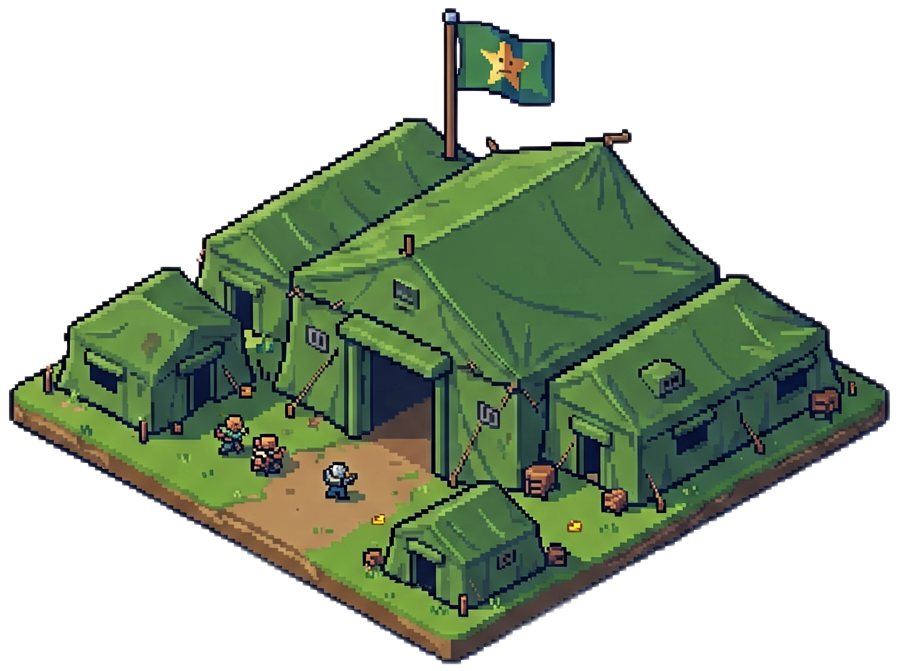
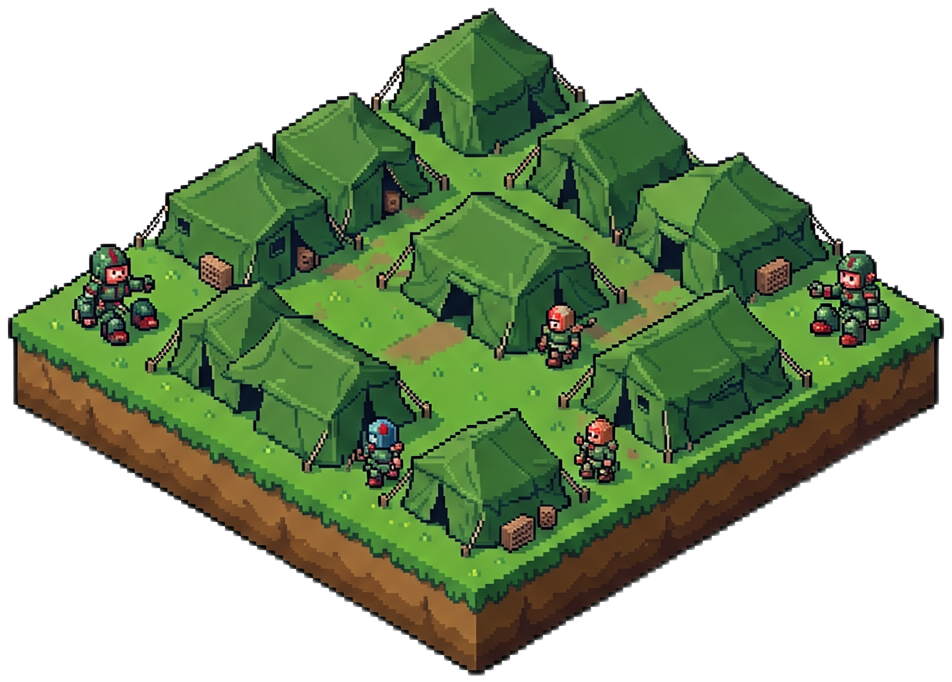
v68：建筑贴图管线铁规——dh统一自然比例(去1.35阈值分支)、黄线按贴图底部滤噪后底边贴合蓝线；兵营新贴图

diff --git a/11.html b/11.html
@@ -1,0 +1,104 @@
+<!DOCTYPE html>
+<html lang="zh">
+<head>
+<meta charset="UTF-8">
+<title>兵营生成全过程演示</title>
+<style>
+  body{background:#111;color:#ddd;font:14px/1.6 system-ui;margin:20px}
+  h1{color:#ffd23f} h3{color:#00e5ff;margin:8px 0}
+  canvas{background:#1a2e1a;border:1px solid #444;border-radius:8px}
+  .row{display:flex;gap:20px;flex-wrap:wrap}
+  .panel{max-width:440px}
+  .tag{display:inline-block;padding:2px 8px;border-radius:4px;margin-right:6px}
+  .y{background:#ffd23f;color:#111} .b{background:#00e5ff;color:#111} .r{background:#ff5252;color:#fff} .o{background:#ff8f00;color:#111}
+  .note{font-size:12px;color:#999}
+</style>
+</head>
+<body>
+<h1>&#127961; 兵营（barracks）生成全过程演示</h1>
+<p>演示：贴图 &rarr; 底部轮廓检测 &rarr; 底边贴合 &rarr; 黄线(沿轮廓/菱形) 与 蓝线(菱形地块) 的对齐关系。</p>
+<div class="row">
+  <div class="panel"><h3>&#9312; 原始贴图 <span class="tag y">裁剪后</span></h3>
+    <canvas id="c1" width="300" height="300"></canvas>
+    <p class="note">assets/barracks.png 已裁剪到主体包围盒。红警兵营是横长建筑 &rarr; 宽&gt;高。</p>
+  </div>
+  <div class="panel"><h3>&#9313; 底部轮廓 bottomProfile <span class="tag r">红点</span></h3>
+    <canvas id="c2" width="300" height="300"></canvas>
+    <p class="note">每列最底部非透明像素（红点）。横长平底 &rarr; 轮廓近似水平线（非等距 V 形）。</p>
+  </div>
+  <div class="panel"><h3>&#9314; 底边贴合 + 黄/蓝线对齐 <span class="tag b">蓝=菱形</span></h3>
+    <canvas id="c3" width="440" height="300"></canvas>
+    <p class="note">蓝线=2&times;2 菱形地块。黄A 沿贴图轮廓=平线不对齐；黄B 菱形底边=贴合蓝线。</p>
+  </div>
+</div>
+<script>
+const TILE_W=84, TILE_H=42;
+const img=new Image();
+img.onload=init;
+img.src='assets/barracks.png?v=2';
+function bottomProfile(){
+  const ow=img.naturalWidth, oh=img.naturalHeight;
+  const oc=document.createElement('canvas'); oc.width=ow; oc.height=oh;
+  const octx=oc.getContext('2d',{willReadFrequently:true});
+  octx.drawImage(img,0,0);
+  const d=octx.getImageData(0,0,ow,oh).data;
+  const prof=new Array(ow);
+  for(let x=0;x<ow;x++){let b=-1;for(let y=oh-1;y>=0;y--){if(d[(y*ow+x)*4+3]>8){b=y;break}}prof[x]=b<0?-1:b/oh;}
+  return prof;
+}
+function init(){
+  const prof=bottomProfile();
+  const ow=img.naturalWidth, oh=img.naturalHeight;
+  let pMin=null,pMax=null;
+  for(let x=0;x<ow;x++){if(prof[x]<0)continue;const f=x/ow;if(pMin==null||f<pMin)pMin=f;if(pMax==null||f>pMax)pMax=f;}
+  const vals=prof.filter(v=>v>=0).sort((a,b)=>a-b);
+  const ratio=vals.length?vals[Math.floor(vals.length*0.95)]:1;
+  const dw=Math.round(160*((2*TILE_W)/((pMax-pMin)*160)));   // 底边贴合宽
+  const dh=Math.max(1,Math.round(dw*oh/ow));                 // 自然比例（不压扁）
+  draw1(); draw2(prof); draw3(prof,ow,oh,dw,dh,ratio);
+}
+function draw1(){
+  const c=document.getElementById('c1').getContext('2d');
+  const s=Math.min(150/img.width,150/img.height);
+  c.drawImage(img,150-img.width*s/2,150-img.height*s/2,img.width*s,img.height*s);
+  c.strokeStyle='#ffd23f'; c.strokeRect(150-150/2,150-150/2,150,150);
+  c.fillStyle='#ffd23f'; c.font='12px monospace';
+  c.fillText(img.width+' × '+img.height+'（宽>高，横长）', 8, 16);
+  c.fillText('红警兵营 = 横长平底', 8, 34);
+}
+function draw2(prof){
+  const c=document.getElementById('c2').getContext('2d');
+  const ow=img.naturalWidth, oh=img.naturalHeight;
+  const s=Math.min(150/ow,150/oh);
+  c.drawImage(img,150-ow*s/2,20,ow*s,oh*s);
+  c.fillStyle='#ff5252';
+  for(let x=0;x<ow;x++){const r=prof[x]; if(r<0)continue; c.fillRect(150-ow*s/2+x*s,20+r*oh*s,1.6,1.6);}
+  c.fillStyle='#ff5252'; c.font='12px monospace';
+  c.fillText('红点 = 每列底部（平底 → 近似直线）', 8, 285);
+}
+function draw3(prof,ow,oh,dw,dh,ratio){
+  const c=document.getElementById('c3').getContext('2d');
+  const cx=220, gy=262;   // 地面菱形下角尖
+  // 蓝线：菱形地块（2×2）
+  c.save(); c.setLineDash([8,5]); c.strokeStyle='#00e5ff'; c.lineWidth=5; c.lineJoin='round';
+  c.beginPath(); c.moveTo(cx-TILE_W,gy-TILE_H); c.lineTo(cx,gy); c.lineTo(cx+TILE_W,gy-TILE_H); c.stroke(); c.restore();
+  // 贴图（底边贴合：底部两端对准菱形左右角）
+  const topY=gy-ratio*dh;
+  c.save(); c.globalAlpha=0.9; c.drawImage(img,cx-dw/2,topY,dw,dh); c.restore();
+  // 黄线A：沿贴图底部轮廓（平线，不对齐 V 形）
+  c.save(); c.setLineDash([6,4]); c.strokeStyle='#ffd23f'; c.lineWidth=3;
+  c.beginPath(); let st=false;
+  for(let x=0;x<ow;x++){const r=prof[x]; if(r<0)continue; const sx=cx-dw/2+(x/ow)*dw; const sy=topY+Math.min(r,ratio)*dh; if(!st){c.moveTo(sx,sy);st=true}else c.lineTo(sx,sy);}
+  c.stroke(); c.restore();
+  // 黄线B：菱形底边（贴合蓝线）
+  c.save(); c.setLineDash([6,4]); c.strokeStyle='#ff8f00'; c.lineWidth=4; c.lineJoin='round';
+  c.beginPath(); c.moveTo(cx-TILE_W,gy-TILE_H); c.lineTo(cx,gy); c.lineTo(cx+TILE_W,gy-TILE_H); c.stroke(); c.restore();
+  // 图例
+  c.font='12px monospace';
+  c.fillStyle='#00e5ff'; c.fillText('蓝线 = 菱形地块（2×2 底边）', 8, 18);
+  c.fillStyle='#ffd23f'; c.fillText('黄A = 沿贴图底部轮廓（平线 → 不对齐）', 8, 36);
+  c.fillStyle='#ff8f00'; c.fillText('黄B = 菱形底边（贴合蓝线）✓ 修复方案', 8, 54);
+  c.fillStyle='#999'; c.fillText('dw='+dw+'  dh='+dh+'  bottomRatio='+ratio.toFixed(2), 8, 292);
+}
+</script>
+</body></html>

diff --git a/game.js b/game.js
@@ -2,7 +2,7 @@
 (function () {
   'use strict';
 
-  window.__VILLAGE_VERSION = 67;   // 版本标识：强刷后控制台/页面可见，用于排查缓存
+  window.__VILLAGE_VERSION = 68;   // 版本标识：强刷后控制台/页面可见，用于排查缓存
   console.log('[冒险村物语] 版本 v' + window.__VILLAGE_VERSION);
 
   let W = 1728, H = 1080;   // 逻辑分辨率：默认 1728x1080，加载后按窗口铺满动态调整（setViewport）
@@ -1826,18 +1826,8 @@
             if (pMax > pMin) {
               // 菱形左右顶点宽 = size*TILE_W，等比缩放
               dw = Math.round(160 * ((bsize * TILE_W) / ((pMax - pMin) * 160)));
-              // 城堡/农场（多线条复杂轮廓 / 横长地块）按自然比例；宽幅贴图（AI 生成的 16:9 等）保持比例防畸变；其余全部菱形贴合（黄线紧贴蓝线）
-              if (b.type === 'castle' || b.type === 'farm') {
-                dh = Math.max(1, Math.round(dw * (img.naturalHeight / img.naturalWidth)));
-              } else if (img.naturalHeight && img.naturalWidth) {
-                const wr = img.naturalWidth / img.naturalHeight;
-                // 宽幅或高瘦贴图都按自然比例（防 AI 宽/高图压扁畸变）
-                dh = (wr > 1.35 || wr < 1 / 1.35)
-                  ? Math.max(1, Math.round(dw * (img.naturalHeight / img.naturalWidth)))
-                  : dw;
-              } else {
-                dh = dw;
-              }
+              // dh 一律按贴图自然比例（建筑贴图管线铁规：禁止宽高比阈值分支/压方/立起）
+              dh = Math.max(1, Math.round(dw * (img.naturalHeight / img.naturalWidth)));
             }
           }
           let topY;
@@ -1948,23 +1938,9 @@
             ctx.textBaseline = 'middle';
             ctx.fillText(icon, p.x, topY + 30);
           }
-          // 调试：黄线——农场（平铺地块）画菱形底边；其余（含新建筑）沿图片底部轮廓，严格参考老建筑
+          // 调试：黄线 = 贴图底部滤噪点后的底边轮廓，经底边贴合变换贴合蓝色菱形虚线（建筑贴图管线铁规）
           if (S.debugBuildingBase && img && img.width > 0) {
-            const isDiamond = (b.type === 'farm');
-            if (isDiamond) {
-              ctx.save();
-              ctx.setLineDash([8, 5]);
-              ctx.strokeStyle = '#ffd23f';
-              ctx.lineWidth = 5;
-              ctx.lineJoin = 'round';
-              ctx.lineCap = 'round';
-              ctx.beginPath();
-              ctx.moveTo(p.x - TILE_W, p.y + TILE_H);         // 左角
-              ctx.lineTo(p.x, p.y + 2 * TILE_H);              // 下角尖
-              ctx.lineTo(p.x + TILE_W, p.y + TILE_H);         // 右角
-              ctx.stroke();
-              ctx.restore();
-            } else if (img.bottomProfile) {
+            if (img.bottomProfile) {
               const prof = img.bottomProfile, ow = img.naturalWidth;
               ctx.save();
               ctx.setLineDash([8, 5]);
@@ -1977,7 +1953,7 @@
               for (let x = 0; x < ow; x++) {
                 const r = prof[x];
                 if (r < 0) continue;
-                const sx = p.x - dw / 2 + (x / ow) * dw;
+                const sx = p.x - dw / 2 + (x / ow) * dw;   // 底边贴合变换（两端对齐菱形左右角）
                 const sy = topY + Math.min(r, img.bottomRatio || 1) * dh;
                 if (!started) { ctx.moveTo(sx, sy); started = true; }
                 else ctx.lineTo(sx, sy);
@@ -1985,7 +1961,7 @@
               ctx.stroke();
               ctx.restore();
             } else {
-              // 兜底：底部轮廓缺失/异常时画菱形底边，保证黄线始终可见（不吞报错）
+              // 兜底：无底部轮廓数据时画菱形底边（保证黄线始终可见）
               ctx.save();
               ctx.setLineDash([8, 5]);
               ctx.strokeStyle = '#ffd23f';

diff --git a/sprites.js b/sprites.js
@@ -64,7 +64,7 @@
     market: 'assets/market.png?v=2',
     shrine: 'assets/shrine.png?v=2',
     library: 'assets/library.png?v=2',
-    barracks: 'assets/barracks.png?v=1',
+    barracks: 'assets/barracks.png?v=2',
     powerplant: 'assets/powerplant.png?v=1',
     refinery: 'assets/refinery.png?v=1',
     windmill: 'assets/windmill.png?v=1',
@@ -416,14 +416,9 @@
     for (const k in window.SHADOW_STRIPS) {
       SpriteKit._shadowCache.set(k, window.SHADOW_STRIPS[k]);
     }
-    // 新建筑按旅店做法：阴影条带复用旅店的（方形小屋底部轮廓近似，尺寸同 2x2 / 84）
-    const innStrips = window.SHADOW_STRIPS['inn|0|0|84'];
-    if (innStrips) {
-      for (const nb of ['forge', 'market', 'shrine', 'library', 'barracks', 'powerplant', 'refinery', 'windmill', 'church', 'tower']) {
-        SpriteKit._shadowCache.set(nb + '|0|0|84', innStrips);
-      }
-    }
   }
+  // 说明：新建筑（forge/barracks 等）不再复用旅店条带——http 环境下 buildShadowGeo
+  //       按各自贴图蒙版实时计算阴影（形状各异）；file:// 下才回退简化条带。
 
   // ═══ 管线校验 callback（开发铁规）═══
   // 新增内容若未按 content.js 顶部"开发铁规"完整注册（IMG_SRC / ALIGN_KEYS /

diff --git a/content.js b/content.js
@@ -44,6 +44,13 @@
  *   1. content.js WEAPON_DEFS       定义（name/atk/price）
  *
  * 【贴图规格铁规】透明 PNG / 正方形 / 主体居中 / 底部贴地 / 清理孤立噪点像素。
+ * 【建筑贴图管线铁规（必须遵守，禁止违反）】
+ *   - 禁止用图片宽高比/角度阈值（如 1.35）做任何分支——横竖/宽高只是透视角度，
+ *     一律走统一底边贴合管线，绝不因"比值没超阈值"而压扁/立起贴图。
+ *   - 底边宽 dw：由贴图底部滤噪点后的轮廓两端，对齐 2×2 菱形左右角（贴合蓝线）。
+ *   - 高度 dh：一律按贴图自然比例 dh = dw × (oh/ow)，禁止阈值分支、禁止硬编码压方。
+ *   - 黄色虚线 = 贴图底部滤噪点后的底边（两条）轮廓，经底边贴合变换贴合蓝色菱形虚线；
+ *     黄线必须反映贴图真实底边，不许改成与贴图无关的形状。
  * 【引擎钩子】建筑消费效果 = game.js updateUseFacility 按 b.type 分支（如需新效果）。
  * 【存档】建筑/人物/怪物均已被 saveGame 白名单序列化，新增字段需同步补进 saveGame。
  * ============================================================ */

diff --git a/index.html b/index.html
@@ -221,11 +221,11 @@
   // 兜底：无论素材加载是否完成，2.5 秒后强制隐藏载入层
   setTimeout(function () { var b = document.getElementById('boot'); if (b) b.style.display = 'none'; }, 2500);
 </script>
-<script src="content.js?v=67"></script>
-<script src="shadow_strips.js?v=67"></script>
-<script src="sprites.js?v=67"></script>
-<script src="engine.js?v=67"></script>
-<script src="game.js?v=67"></script>
-<script src="ui.js?v=67"></script>
+<script src="content.js?v=68"></script>
+<script src="shadow_strips.js?v=68"></script>
+<script src="sprites.js?v=68"></script>
+<script src="engine.js?v=68"></script>
+<script src="game.js?v=68"></script>
+<script src="ui.js?v=68"></script>
 </body>
 </html>
